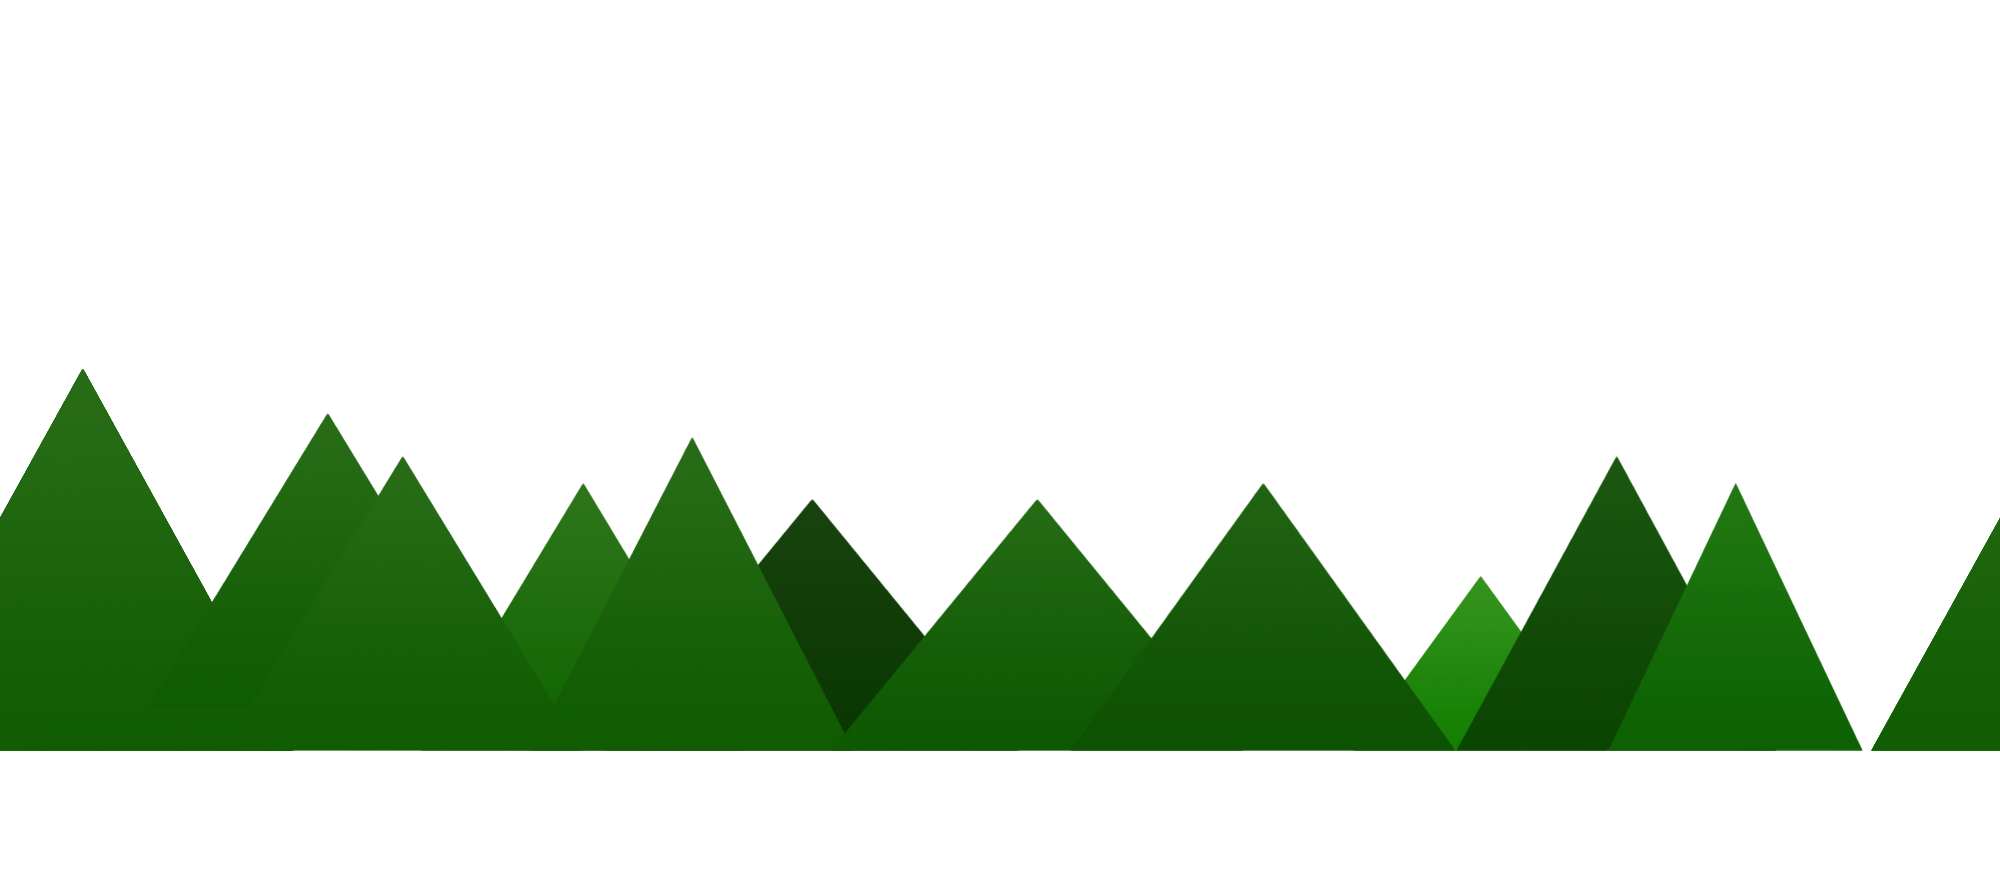
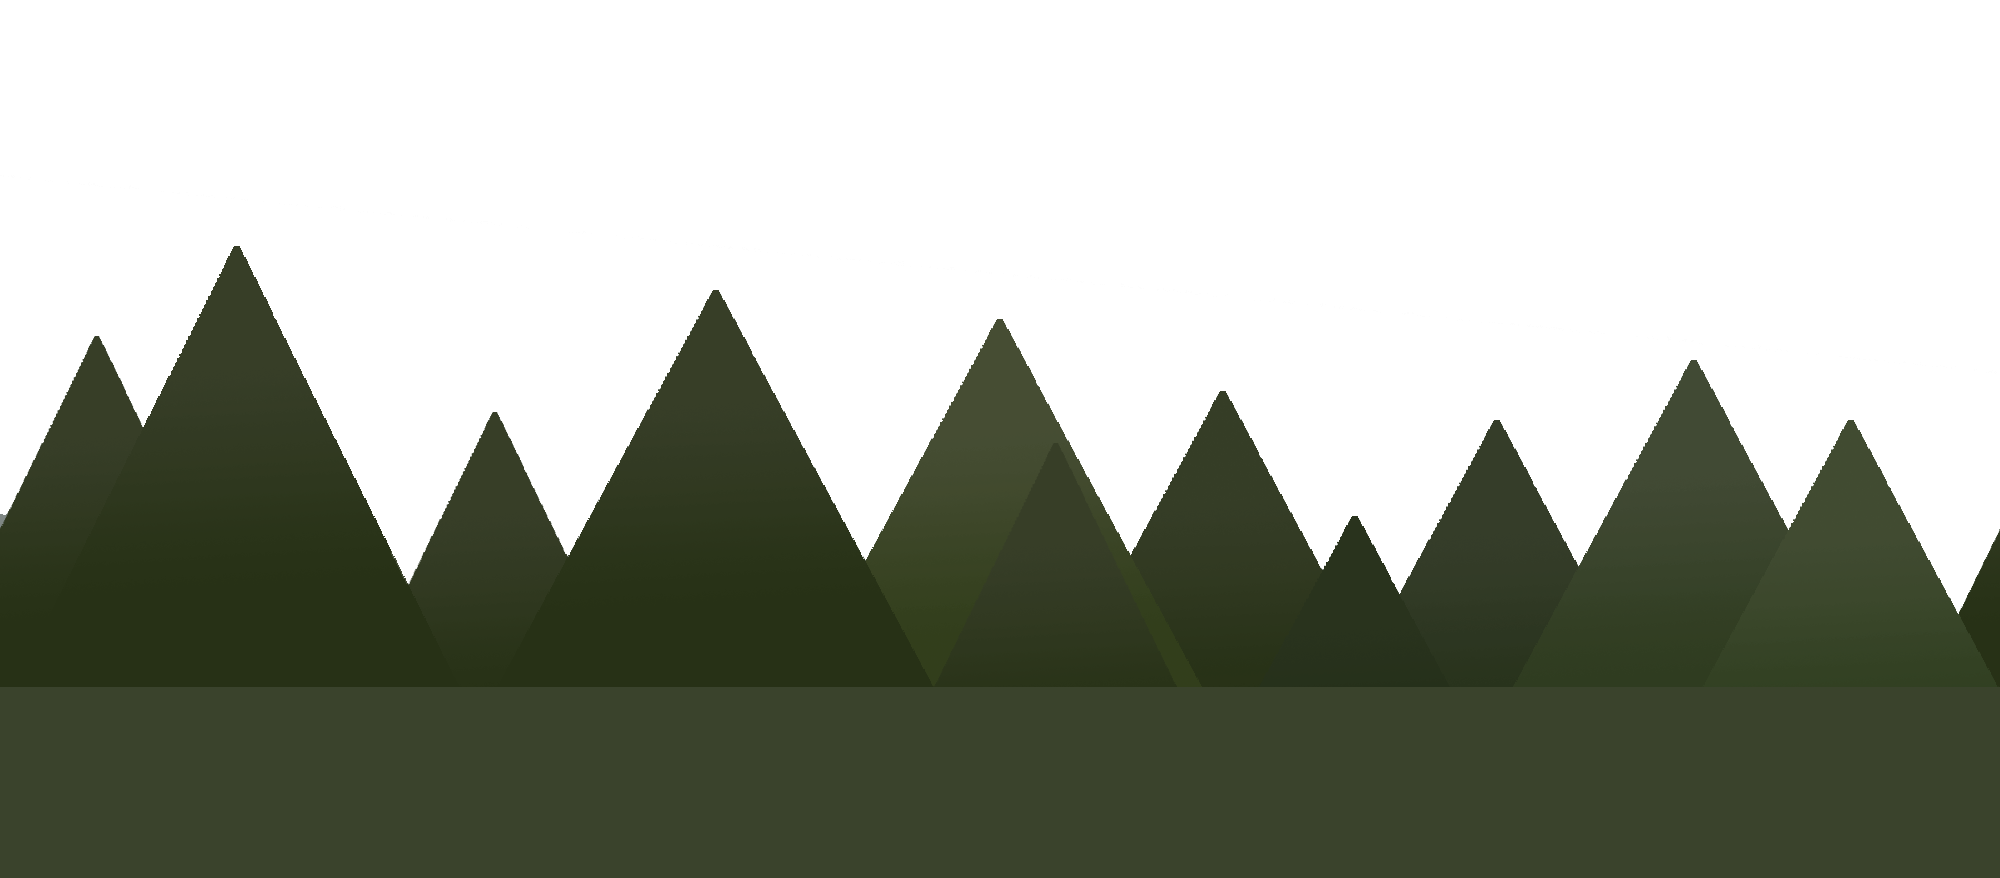
change background

diff --git a/styles.css b/styles.css
@@ -67,7 +67,7 @@ span p{
 }
 /*MAIN PAGE CSS*/
 #accueil{
-    z-index: 2;
+    z-index: 4;
     position: absolute;
     width: 100%;
     height: 100%;
@@ -111,7 +111,7 @@ span p{
 }
 /*PROJETS PAGE CSS*/
 #projets{
-    z-index: 4;
+    z-index: 5;
     position: absolute;
     height: 92%;
     width: 100%;
@@ -161,7 +161,7 @@ span p{
 }
 /*ABOUT PAGE CSS*/
 #about{
-    z-index: 4;
+    z-index: 5;
     position: absolute;
     height: 92%;
     width: 100%;
@@ -232,6 +232,10 @@ span p{
     background-image: url("./img/fg1.png");
 }
 #fg2{
-    z-index: 3;
+    z-index: 2;
     background-image: url("./img/fg2.png");
+}
+#fg3{
+    z-index: 4;
+    background-image: url("./img/fg3.png");
 }

diff --git a/index.html b/index.html
@@ -151,6 +151,7 @@
         <div id="bg"></div>
         <div id="fg1"></div>
         <div id="fg2"></div>
+        <div id="fg3"></div>
     </section>
     </main>
 </body>
